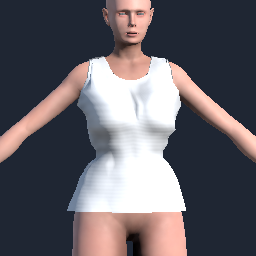
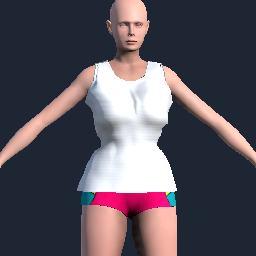
The garment thumbnails are taken on a dressed reference body: no bare skin below the hem
The art brief's A1, with the owner's D7. The four creator thumbnails
(Gamesim_{KnitCrew,CompetitionVest}_{A,B}_Thumbnail.png) showed the UMA base body bare below the
shirt's hem. HouseGarmentAuthoring.RerenderThumbnails, a batch entry with Build's guards (batch
mode, not playing, -gamesimGarmentAuthoringRoot naming this project, an Acceptance copy, the same
bounded update runner), wears each saved garment on its race's reference body over the first
compatible Legs recipe by name - the list MeasureLegsEnvelope measures, now CompatibleLegs - and
photographs it centred halfway from the hips to the neck at 0.95 of that span, so the whole
garment shows. It writes only the four PNGs, and checks the project index's bytes are unchanged
as Verify does.

Run on the UMA copy (A over colors_top_bottom_Recipe, B over male_shorts_black_cotton_Recipe);
the diff is the four PNGs alone, their metas unchanged. UmaHouseGarmentLifecyclePlayModeTests and
UmaAppearanceCatalogPlayModeTests, which hold every item to a thumbnail, passed there after.

diff --git a/Assets/Gamesim/Uma/Editor/HouseGarmentAuthoring.cs b/Assets/Gamesim/Uma/Editor/HouseGarmentAuthoring.cs
@@ -341,7 +341,17 @@ namespace Gamesim.Uma.Editor
             Start(true);
         }
 
-        private static void Start(bool verify)
+        /// <summary>
+        /// Batch entry: re-renders the four garment thumbnails over Legs (see <see cref="RerenderSaved"/>),
+        /// with the same guards as <see cref="Build"/>, and leaves the project index's bytes as they
+        /// were. Omit -quit.
+        /// </summary>
+        public static void RerenderThumbnails()
+        {
+            Start(false, true);
+        }
+
+        private static void Start(bool verify, bool thumbnails = false)
         {
             try
             {
@@ -354,13 +364,15 @@ namespace Gamesim.Uma.Editor
                     "-gamesimGarmentAuthoringRoot must explicitly name this isolated project.");
                 Require(Path.GetFileName(project).IndexOf("Acceptance", StringComparison.OrdinalIgnoreCase) >= 0,
                     "Only an acceptance copy may author these assets.");
-                reportPath = Path.Combine(project, "Logs", verify ? "house-garment-verification.json" : "house-garment-authoring.json");
+                reportPath = Path.Combine(project, "Logs", thumbnails ? "house-garment-thumbnails.json"
+                    : verify ? "house-garment-verification.json" : "house-garment-authoring.json");
                 report = new Report { project = project, startedUtc = DateTime.UtcNow.ToString("o") };
-                verifying = verify;
-                if (verify) report.indexShaBefore = Hash(IndexPath);
+                // A re-render must leave the index as a verification does.
+                verifying = verify || thumbnails;
+                if (verifying) report.indexShaBefore = Hash(IndexPath);
                 started = EditorApplication.timeSinceStartup;
                 DynamicCharacterAvatar.EditorGenerationPaused = true;
-                routine = verify ? VerifySaved() : Author();
+                routine = thumbnails ? RerenderSaved() : verify ? VerifySaved() : Author();
                 EditorApplication.update += Advance;
                 Progress("scheduled");
             }
@@ -608,6 +620,57 @@ namespace Gamesim.Uma.Editor
             Progress("fresh project index, four recipes, private dyes and effective masks verified");
         }
 
+        /// <summary>
+        /// The four thumbnails again, from the saved recipes: each garment on its reference body over
+        /// the first compatible Legs recipe by name (the art brief's A1, the owner's D7), framed from
+        /// halfway between the hips and the neck at 0.95 of that span, so the whole garment shows and
+        /// no bare skin below its hem. Only the four PNGs are written.
+        /// </summary>
+        private static IEnumerator RerenderSaved()
+        {
+            EditorSceneManager.NewScene(NewSceneSetup.EmptyScene, NewSceneMode.Single);
+            UMAAssetIndexer.RuntimeInitializeOnLoad();
+            index = UMAAssetIndexer.Instance;
+            Require(index != null && AssetDatabase.GetAssetPath(index) == IndexPath,
+                "Fresh process did not discover the project Global Library override.");
+            report.indexAssetPath = AssetDatabase.GetAssetPath(index);
+            report.indexGuid = AssetDatabase.AssetPathToGUID(IndexPath);
+            string[] stems = { "Gamesim_KnitCrew", "Gamesim_CompetitionVest" };
+            string[] races = { UmaCastLibrary.FemaleRace, UmaCastLibrary.MaleRace };
+            for (int body = 0; body < races.Length; body++)
+            {
+                string fit = body == 0 ? "A" : "B";
+                string legsName = CompatibleLegs(races[body])[0];
+                UMAWardrobeRecipe legs = index.GetAsset<UMAWardrobeRecipe>(legsName, recursionGuard: true);
+                Require(legs != null, "A compatible Legs recipe is unavailable: " + legsName);
+                foreach (string stem in stems)
+                {
+                    string name = stem + "_" + fit;
+                    Progress("thumbnail " + name + " over " + legsName);
+                    UMAWardrobeRecipe garment = index.GetAsset<UMAWardrobeRecipe>(name + "_Recipe", recursionGuard: true);
+                    Require(garment != null && AssetDatabase.GetAssetPath(garment) == ContentRoot + "/" + name + "_Recipe.asset",
+                        "Recipe cannot resolve through the saved Global Library: " + name + "_Recipe");
+                    DynamicCharacterAvatar avatar = Reference(races[body]);
+                    avatar.ClearSlots();
+                    Require(avatar.SetSlot(garment), "The reference body refused its garment recipe: " + garment.name);
+                    Require(avatar.SetSlot(legs), "The reference body refused its Legs recipe: " + legsName);
+                    avatar.GenerateNow();
+                    AssertBody(avatar);
+                    Require(avatar.GetWardrobeItem("Chest") == garment && avatar.GetWardrobeItem("Legs") == legs,
+                        "The reference is not wearing " + garment.name + " over " + legsName);
+                    Require(avatar.umaRecipe.slotDataList.Any(slot => slot != null && slot.slotName == name + "_Slot"),
+                        "GenerateNow did not dress the reference in its garment: " + garment.name);
+                    Thumbnail(avatar, name + "_Thumbnail", .5f, .95f);
+                    report.fits.Add(new FitReport { id = name, race = races[body], recipe = garment.name, slot = name + "_Slot",
+                        geometryStatus = "thumbnail over " + legsName });
+                    UnityEngine.Object.DestroyImmediate(avatar.gameObject);
+                    yield return null;
+                }
+            }
+            Require(report.fits.Count == 4, "Four thumbnails were not re-rendered.");
+            Progress("four thumbnails re-rendered over Legs");
+        }
+
         private static DynamicCharacterAvatar Reference(string race)
         {
             var root = new GameObject("__HouseGarmentReference");
@@ -694,16 +757,22 @@ namespace Gamesim.Uma.Editor
             }
             return width > .05f ? Mathf.Min(width * .92f, fallback * 1.12f) : fallback * .92f;
         }
-        private static LowerLayerEnvelope MeasureLegsEnvelope(string race, Surface body)
+        /// <summary>The Legs recipes a garment on this race is worn over, by name: every one the catalog fits to the race that does not suppress the Chest.</summary>
+        private static string[] CompatibleLegs(string race)
         {
-            Vector3 hips = body.Bone(HumanBodyBones.Hips);
-            float shoulder = (body.Bone(HumanBodyBones.LeftUpperArm).y + body.Bone(HumanBodyBones.RightUpperArm).y) * .5f;
-            var envelope = new LowerLayerEnvelope(hips, hips.y - .02f, hips.y + (shoulder - hips.y) * .7f);
             var catalog = new UmaAppearanceCatalog();
             string[] names = catalog.Items.Where(item => item.Slot == "Legs" && item.Fits(race)
                     && !item.SuppressedSlots.Contains("Chest"))
                 .Select(item => catalog.ResolveRecipeName(item.Id)).Distinct(StringComparer.Ordinal).OrderBy(value => value, StringComparer.Ordinal).ToArray();
             Require(names.Length > 0 && names.Length <= 64, "The supported lower-layer catalog needs a bounded set of compatible Legs recipes.");
+            return names;
+        }
+        private static LowerLayerEnvelope MeasureLegsEnvelope(string race, Surface body)
+        {
+            Vector3 hips = body.Bone(HumanBodyBones.Hips);
+            float shoulder = (body.Bone(HumanBodyBones.LeftUpperArm).y + body.Bone(HumanBodyBones.RightUpperArm).y) * .5f;
+            var envelope = new LowerLayerEnvelope(hips, hips.y - .02f, hips.y + (shoulder - hips.y) * .7f);
+            string[] names = CompatibleLegs(race);
             DynamicCharacterAvatar dressed = Reference(race);
             try
             {
@@ -1176,7 +1245,12 @@ namespace Gamesim.Uma.Editor
             }
             finally { UnityEngine.Object.DestroyImmediate(pixels); }
         }
-        private static Sprite Thumbnail(DynamicCharacterAvatar avatar, string name)
+        /// <summary>
+        /// Photographs the dressed reference into the garment's thumbnail PNG: centred <paramref name="centre"/>
+        /// of the way from the hips to the neck, the orthographic half-height <paramref name="size"/>
+        /// times that span (0.4 m at the least).
+        /// </summary>
+        private static Sprite Thumbnail(DynamicCharacterAvatar avatar, string name, float centre = .55f, float size = .8f)
         {
             var cameraObject = new GameObject("__GarmentThumbnailCamera");
             Camera camera = cameraObject.AddComponent<Camera>();
@@ -1185,8 +1259,8 @@ namespace Gamesim.Uma.Editor
             camera.orthographic = true;
             Vector3 hips = avatar.GetComponent<Animator>().GetBoneTransform(HumanBodyBones.Hips).position;
             Vector3 neck = avatar.GetComponent<Animator>().GetBoneTransform(HumanBodyBones.Neck).position;
-            Vector3 center = Vector3.Lerp(hips, neck, .55f);
-            camera.orthographicSize = Mathf.Max(.4f, (neck.y - hips.y) * .8f);
+            Vector3 center = Vector3.Lerp(hips, neck, centre);
+            camera.orthographicSize = Mathf.Max(.4f, (neck.y - hips.y) * size);
             cameraObject.transform.position = center + new Vector3(.35f, .05f, 3f);
             cameraObject.transform.LookAt(center);
             var lightObject = new GameObject("__GarmentThumbnailLight");
